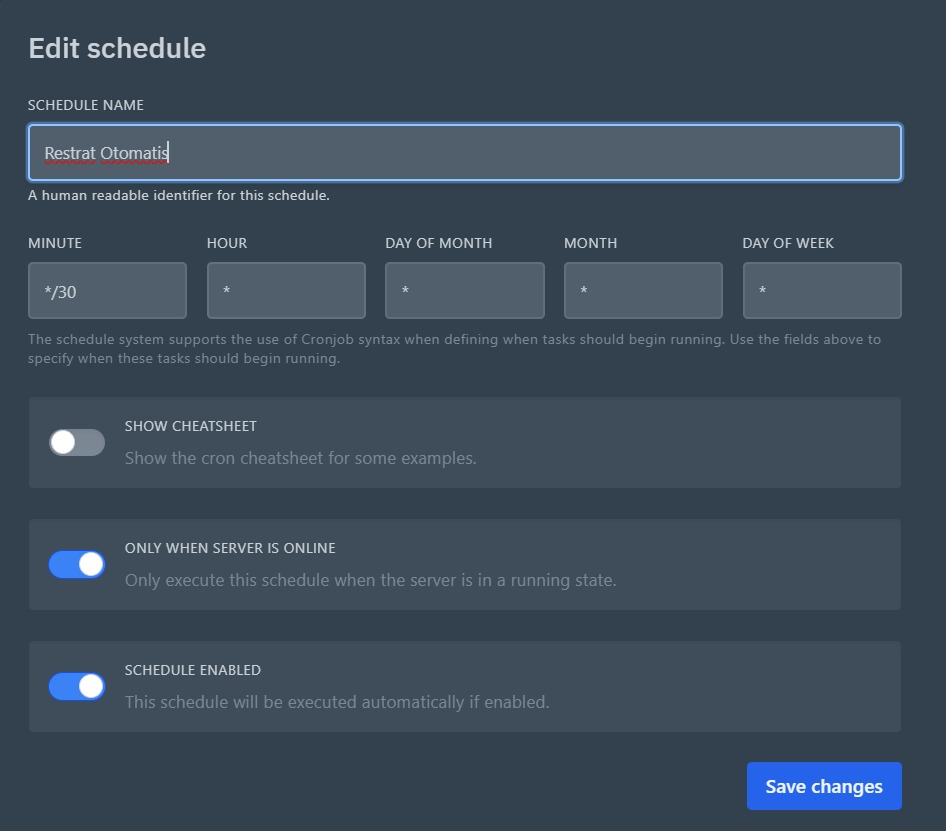
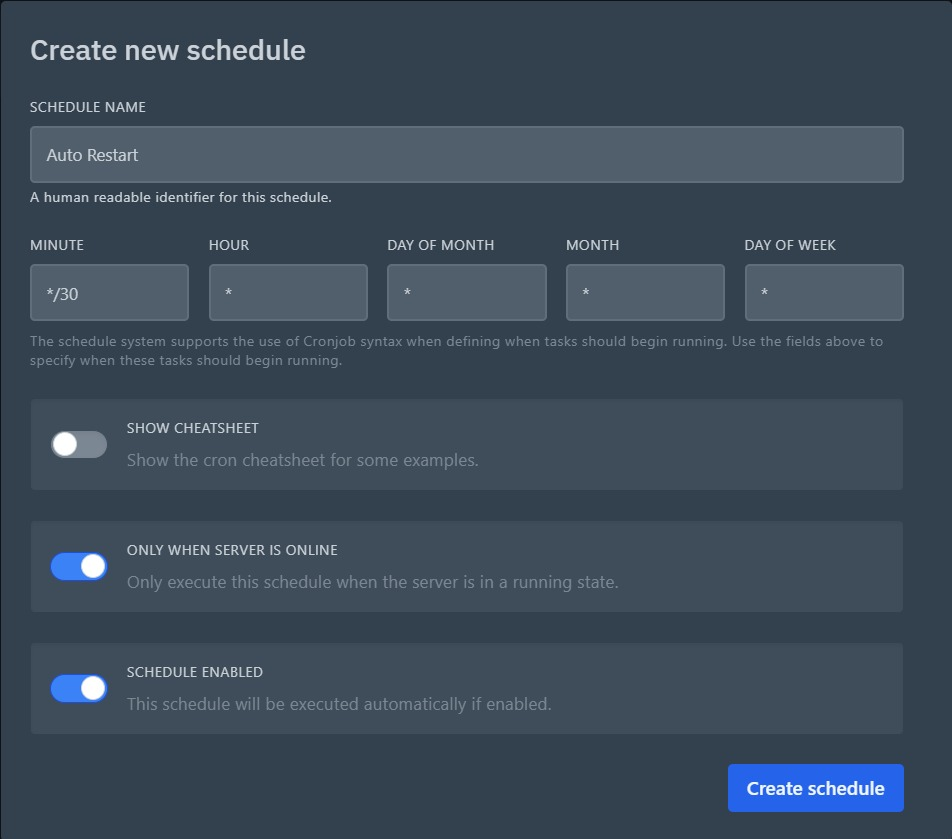
v1.0

diff --git a/README.md b/README.md
@@ -94,17 +94,17 @@ Disarankan untuk menjalankan bot menggunakan **Panel Pterodactyl** dan mengatur 
      <img src="preview/Schedule-1.png" alt="Screenshot Panel Pterodactyl" width="70%">
    </p>
 
-2. Setelah itu, buat **New Schedule** dengan interval 30 menit atau sesuai keinginan.  
+2. Setelah itu, buat **New Task**
    <p align="center">
      <img src="preview/Schedule-2.png" alt="Screenshot Panel Pterodactyl" width="70%">
    </p>
 
-3. Jika sudah terbuat, klik **New Task**.  
+3. Masukan option seperti di gambar berikut ini:
    <p align="center">
      <img src="preview/Schedule-3.png" alt="Screenshot Panel Pterodactyl" width="70%">
    </p>
 
-4. Atur Task seperti pada contoh agar restart otomatis berjalan dengan benar.
+4. Tinggal click **Create Task** dan **Save**
 
 ---
 
